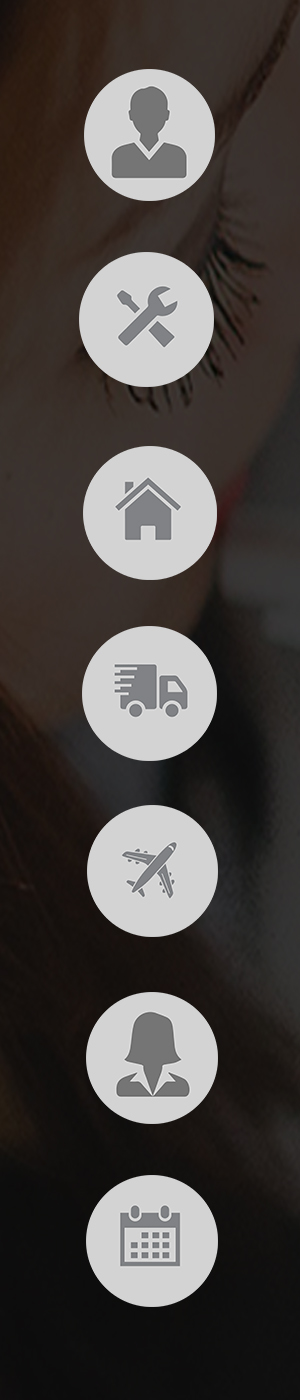
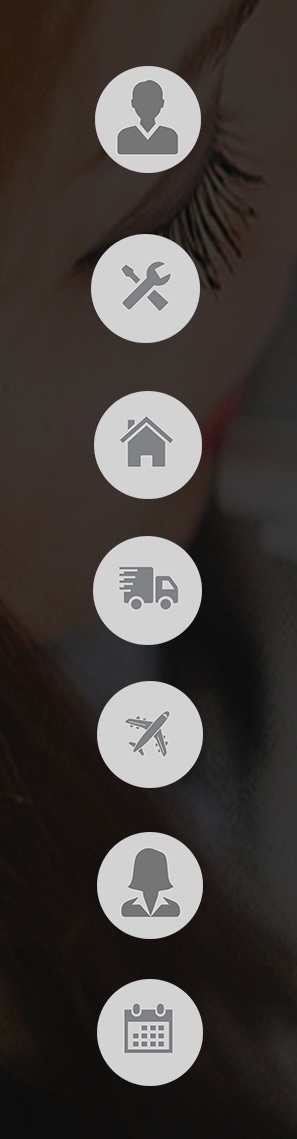
feat: updated images for vector & styling

diff --git a/src/styles/index.ts b/src/styles/index.ts
@@ -16,7 +16,6 @@ display: flex;
 justify-content: center;
 flex-direction: column;
 margin: 2rem;
-background-color: #ffffff;
 box-shadow: 0 0.3125rem 1.3125rem rgba(125, 138, 149, 0.65);
 `;
 
@@ -55,13 +54,6 @@ export const InnerPagesLayoutContainer = withProps<any>(styled.div)`
 display: flex;
 flex-direction: column;
 background-image: url(${bg});
-`;
-
-export const HomeLogoContainer = withProps<any>(styled.div)`
-  display: flex;
-  justify-content: flex-end;
-  align-items: flex-start;
-  margin-right: 20%;
 `;
 
 export const Text = withProps<any>(styled.div)`
@@ -217,7 +209,6 @@ z-index: 1;
   }
 `;
 
-
 export const BackContainer = withProps<any>(styled.div)`
 justify-content: flex-start;
 margin-left: 0;
@@ -227,6 +218,14 @@ padding: 1rem;
 :hover {
     background-color: #ececed;
 }
+
+  @media (max-width: 350px) {
+    justify-content: flex-start;
+    margin-left: 0;
+    padding: 0;
+  :hover {
+    background-color: rgba(0,0,0,0.0);
+  }
 
   @media (max-width: 850px) {
   justify-content: flex-start;
@@ -245,6 +244,22 @@ padding: 1rem;
 :hover {
     background-color: #ececed;
 }
+
+  @media (max-width: 350px) {
+    justify-content: flex-start;
+    margin-left: 0;
+    padding: 0;
+  :hover {
+    background-color: rgba(0,0,0,0.0);
+  }
+
+  @media (max-width: 480px) {
+    justify-content: flex-start;
+    margin-left: 0;
+    background-color: #f00;
+    :hover {
+      background-color: rgba(0,0,0,0.0);
+  }
 
   @media (max-width: 850px) {
   justify-content: flex-start;
@@ -933,6 +948,10 @@ cursor: pointer;
     : hover {
   background-color: rgba(255, 255, 255, 0.5);
 }
+
+  @media (max-width: 850px) {
+    width: 18rem;
+  }
 `;
 
 // -------------------//
@@ -1032,6 +1051,12 @@ export const OutbuildingDisplay = withProps<any>(styled.div)`
 
   /* Medium Devices, Desktops */
   @media only screen and (max-width : 992px) {
+    .mobile {
+      display: block;
+    }
+    .desktop {
+      display: none;
+    }
   }
 
   /* Small Devices, Tablets */
@@ -1046,12 +1071,23 @@ export const OutbuildingDisplay = withProps<any>(styled.div)`
 
   /* Extra Small Devices, Phones */
   @media only screen and (max-width : 480px) {
+    .mobile {
+      display: block;
+    }
+    .desktop {
+      display: none;
+    }
   }
 
   /* Custom, iPhone Retina */
   @media only screen and (max-width : 320px) {
+      .mobile {
+      display: block;
+    }
+    .desktop {
+      display: none;
+    }
   }
-
 `;
 
 
@@ -1060,7 +1096,7 @@ export const ProjectColours = withProps<any>(styled.div)`;
 display: flex;
 justify-content: center;
 
- /* Large Devices, Wide Screens */
+  /* Large Devices, Wide Screens */
   @media only screen and (min-width : 992px) {
     .mobile {
       display: none;
@@ -1072,6 +1108,12 @@ justify-content: center;
 
   /* Medium Devices, Desktops */
   @media only screen and (max-width : 992px) {
+    .mobile {
+      display: block;
+    }
+    .desktop {
+      display: none;
+    }
   }
 
   /* Small Devices, Tablets */
@@ -1086,10 +1128,22 @@ justify-content: center;
 
   /* Extra Small Devices, Phones */
   @media only screen and (max-width : 480px) {
+    .mobile {
+      display: block;
+    }
+    .desktop {
+      display: none;
+    }
   }
 
   /* Custom, iPhone Retina */
   @media only screen and (max-width : 320px) {
+      .mobile {
+      display: block;
+    }
+    .desktop {
+      display: none;
+    }
   }
 `;
 
@@ -1136,7 +1190,7 @@ padding-top: 2rem;
 padding-bottom: 2rem;
 color:; #544F51;
 
-/* Large Devices, Wide Screens */
+  /* Large Devices, Wide Screens */
   @media only screen and (min-width : 992px) {
     .mobile {
       display: none;
@@ -1148,6 +1202,12 @@ color:; #544F51;
 
   /* Medium Devices, Desktops */
   @media only screen and (max-width : 992px) {
+    .mobile {
+      display: block;
+    }
+    .desktop {
+      display: none;
+    }
   }
 
   /* Small Devices, Tablets */
@@ -1162,13 +1222,23 @@ color:; #544F51;
 
   /* Extra Small Devices, Phones */
   @media only screen and (max-width : 480px) {
+    .mobile {
+      display: block;
+    }
+    .desktop {
+      display: none;
+    }
   }
 
   /* Custom, iPhone Retina */
   @media only screen and (max-width : 320px) {
+      .mobile {
+      display: block;
+    }
+    .desktop {
+      display: none;
+    }
   }
-
-
 `;
 
 export const IconsText = withProps<any>(styled.div)`;

diff --git a/src/components/pages/portfolio-item/index.tsx b/src/components/pages/portfolio-item/index.tsx
@@ -83,7 +83,6 @@ export default class PortfolioItemPage extends Component<IProps, any> {
 
           <OutbuildingDisplay
             data-qa="project-view-displays">
-
             <img src={images.images} className="desktop" />
             <img src={images.imagesMobile} className="mobile" />
 
